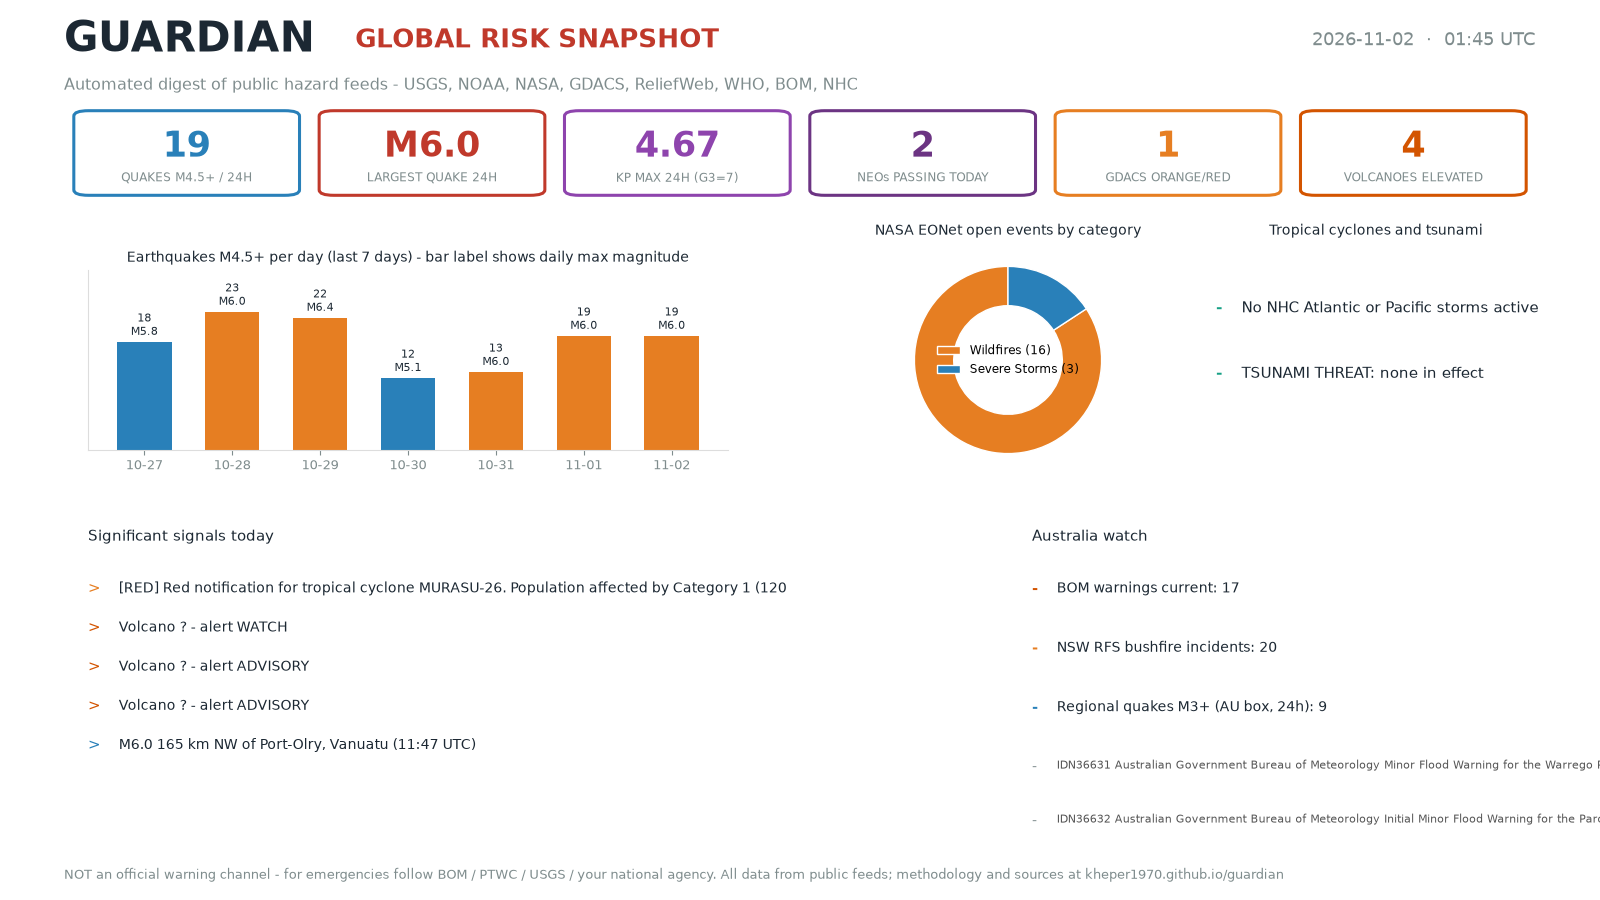
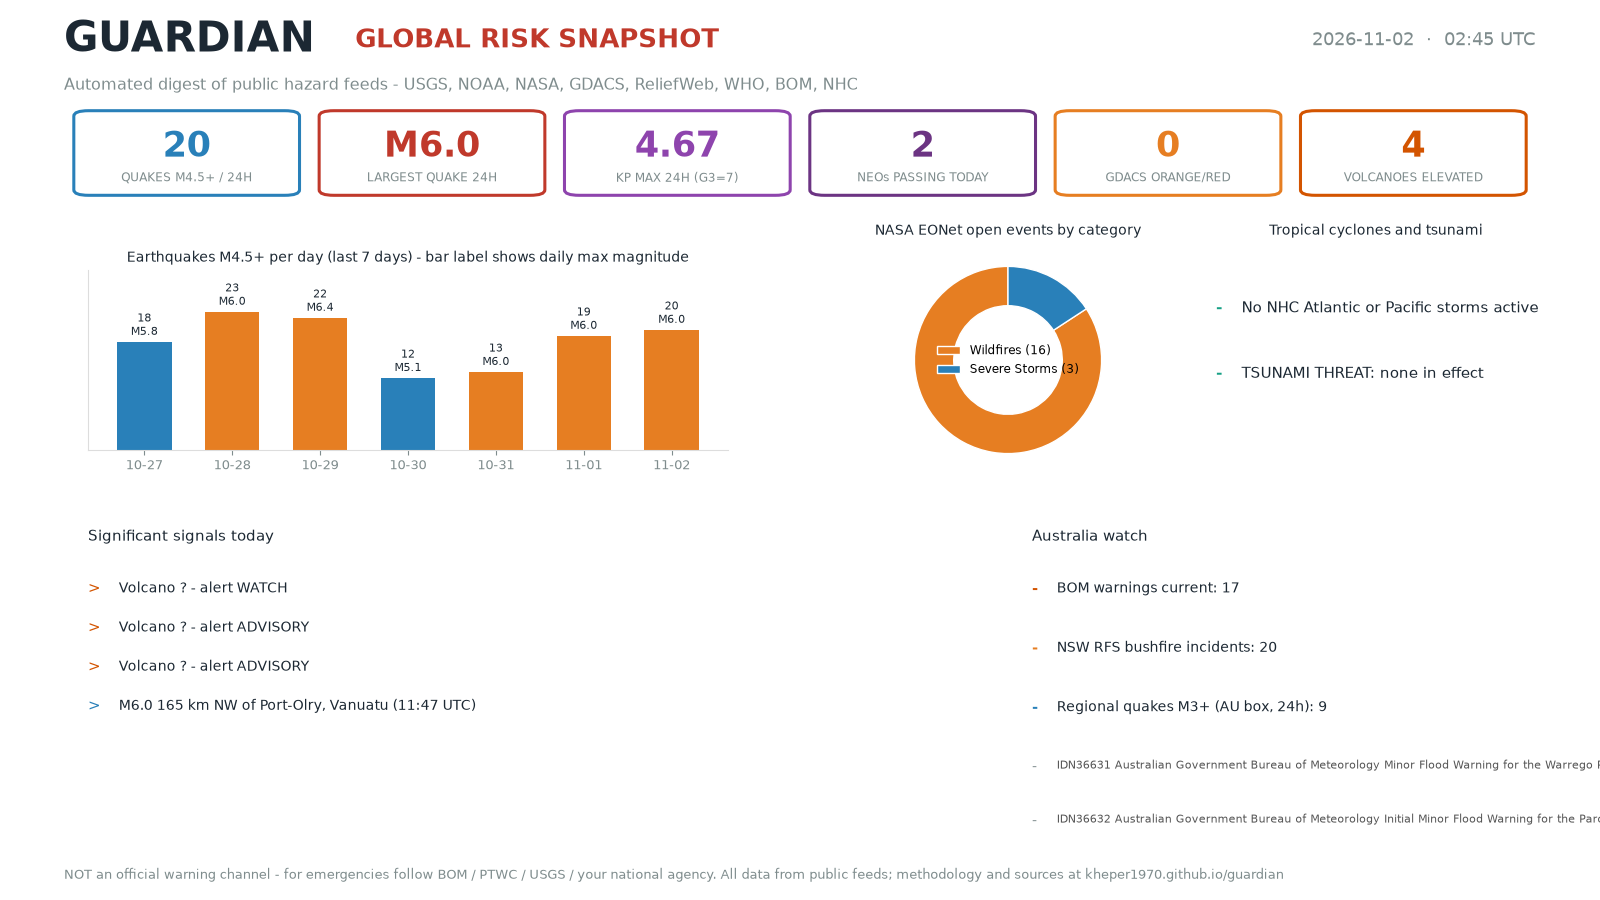
Automated update 2026-11-02T02:50Z

diff --git a/briefing/briefing_2026-11-02.html b/briefing/briefing_2026-11-02.html
@@ -80,16 +80,16 @@ or your national emergency agency.</p>
 <h1>Guardian daily briefing — 2026-11-02</h1>
 <p>Generated automatically from public feeds (USGS, NOAA, NASA, WHO, GDACS, ReliefWeb, EONet, Google News). All times UTC.</p>
 <h2>Earthquakes (M4.5+, last 24h)</h2>
-<p>Count: 18
+<p>Count: 20
 - M6 165 km NW of Port-Olry, Vanuatu (2026-11-01 11:47 UTC)
 - M5.4 203 km NW of Port-Olry, Vanuatu (2026-11-01 06:26 UTC)
+- M5.1 Kermadec Islands region (2026-11-02 01:18 UTC)
 - M5.1 Banda Sea (2026-11-02 00:53 UTC)
 - M5.1 South Sandwich Islands region (2026-11-01 17:11 UTC)
 - M5.1 201 km NW of Port-Olry, Vanuatu (2026-11-01 07:00 UTC)
 - M5 Mid-Indian Ridge (2026-11-01 18:34 UTC)
 - M4.8 Mid-Indian Ridge (2026-11-01 18:53 UTC)
-- M4.8 203 km NW of Port-Olry, Vanuatu (2026-11-01 12:08 UTC)
-- ...and 10 more</p>
+- ...and 12 more</p>
 <h2>Space weather</h2>
 <ul>
 <li>Kp now: 2.0; max last 24h: 4.67 (storm threshold G3 = Kp 7.0)</li>
@@ -181,13 +181,15 @@ or your national emergency agency.</p>
 <ul>
 <li>Heat, Food Insecurity, Disease Make Climate a Global Health Emergency: Lancet Countdown - The Energy Mix (Wed, 28 Oct 2026)</li>
 <li>WFP Palestine Emergency Response External Situation Report #99, 29 October 2026 (Reporting period: 1-15 October 2026) - ReliefWeb (Fri, 30 Oct 2026)</li>
-<li>UK households urged to prepare for emergencies and ‘attacks’. Here’s what to buy - The Independent (Fri, 30 Oct 2026)</li>
-<li>Somalia - UN World Food Programme (Mon, 24 Aug 2026)</li>
-<li>FAO's Global Emergency and Resilience Appeal 2026 | FAO Emergency and Resilience - Food and Agriculture Organization (Mon, 19 Oct 2026)</li>
-<li>Can emergency cash buy food security? - UNU | United Nations University (Wed, 08 Jul 2026)</li>
+<li>Food insecurity and child malnutrition worsen in Afghanistan despite strong agricultural season - UN World Food Programme (Thu, 15 Oct 2026)</li>
+<li>Flooding and Food Security: The Urgent Need for Research - Inter Press Service (Wed, 28 Oct 2026)</li>
+<li>US, UK among 31 countries warning of 'alarming' Sudan famine - The New Indian Express (Tue, 27 Oct 2026)</li>
+<li>When Getting Food Means Filling Out Forms - NYC Food Policy Center (Tue, 30 Jun 2026)</li>
 </ul>
 <h2>Famine watch (UN News + ReliefWeb keywords)</h2>
 <ul>
+<li>[UN News] Ending conflict is ‘number one thing’ to reduce world hunger, new WFP chief says (Wed, 28 Oct 2026)</li>
+<li>[ReliefWeb] Cameroon Food Security Outlook Update, October 2026 - May 2027: Conflict compounded by rainfall deficits to sustain elevated assistance needs through May (Mon, 02 Nov 2026)</li>
 <li>[ReliefWeb] DR Congo: République démocratique du Congo : Aperçu de l’insécurité alimentaire aiguë de l’IPC | Septembre 2026 – Juin 2027 (Publié le 30 octobre 2026) (Mon, 02 Nov 2026)</li>
 <li>[ReliefWeb] DR Congo: Democratic Republic of Congo: IPC Acute Food Insecurity Snapshot | September 2026 – June 2027 (Mon, 02 Nov 2026)</li>
 <li>[ReliefWeb] Zambia | Drought: Early Action Protocol Activation (EAP No: EAP2023CR02, Operation No.: MDRZM025), 14 October 2026 (Mon, 02 Nov 2026)</li>
@@ -196,15 +198,18 @@ or your national emergency agency.</p>
 </ul>
 <h2>Armed conflict watch (UN News + ReliefWeb keywords)</h2>
 <ul>
+<li>[UN News] Ukraine: Oleshky ceasefire offers ‘hope’ for civilians as attacks on aid vehicles continue (Fri, 30 Oct 2026)</li>
+<li>[UN News] Yemen war makes reaching assistance too dangerous for many (Fri, 30 Oct 2026)</li>
 <li>[ReliefWeb] Afghanistan Complex Emergency - DREF Operational Update (MDRAF020) (Mon, 02 Nov 2026)</li>
+<li>[ReliefWeb] World Food Programme on the ground providing emergency food assistance to Oleshky evacuees in Ukraine (Sun, 01 Nov 2026)</li>
 </ul>
 <h2>Australia watch (ABC News, NSW RFS, USGS AU quakes, GNews AU, health.gov.au)</h2>
 <ul>
-<li>Tasmania might keep public transport free statewide (Mon, 02 Nov 2026)</li>
-<li>Bancroft reaches acceptance over Test recall chances after 'dejection' (Mon, 02 Nov 2026)</li>
-<li>They voted for Trump last time. Now some are having second thoughts (Mon, 02 Nov 2026)</li>
-<li>Strintzos eyes Olympic berth after fifth finish in New York Marathon (Mon, 02 Nov 2026)</li>
-<li>Homeowners facing thousands in costs to upgrade from gas to electric (Mon, 02 Nov 2026)</li>
+<li>Eight arrested over alleged assault of off-duty police officer (Mon, 02 Nov 2026)</li>
+<li>Ukrainian air raid alert app sends false warnings after being hacked (Mon, 02 Nov 2026)</li>
+<li>Bourke filmmaker takes over reins of Indigenous film festival in Paris (Mon, 02 Nov 2026)</li>
+<li>Quick hits: NZ duo on brink of history as Lebanon goes into folklore (Mon, 02 Nov 2026)</li>
+<li>Labor allegedly used threats and inflated costs to dictate Airport Rail Link (Mon, 02 Nov 2026)</li>
 <li>NSW RFS current incidents: 20 (0 at Warning level)</li>
 <li>AU-region quakes (24h): 9, max M4.8</li>
 <li>M3.5 9 km NE of Korumburra, Australia</li>
@@ -213,9 +218,9 @@ or your national emergency agency.</p>
 <li>AU emergency headlines:</li>
 <li>More storms looming for SEQ as 'extreme' heatwave hits Gulf country - ABC News &amp; Headlines – Australian Broadcasting Corporation (Sun, 01 Nov 2026)</li>
 <li>Australia’s aerial firefighting fleet gets $150m boost ahead of supercharged El Niño - News24 (Sun, 01 Nov 2026)</li>
-<li>Warnings as hail, heavy winds slam south-east Queensland - Nine.com.au (Sun, 01 Nov 2026)</li>
+<li>Water Gushes Down Wash as Heavy Rain Floods Arizona - The Australian (Mon, 02 Nov 2026)</li>
 <li>Major risk to Australia's essential services as stockpiling advice grows overseas: 'Paralyse the country' - Yahoo News Australia (Sat, 31 Oct 2026)</li>
-<li>Cyclone Vaianu: Qantas, Jetstar &amp; Virgin's Fiji flights cancelled - Karryon (Sun, 01 Nov 2026)</li>
+<li>Shoppers told to consider using David Jones gift cards as iconic chain fights for future - Nine.com.au (Sun, 01 Nov 2026)</li>
 <li>India-Australia defence ties: Advancing a vital Indo-Pacific partnership - Lowy Institute (Sun, 01 Nov 2026)</li>
 <li>SA defence leader wins accolade from PM - InDaily South Australia (Sun, 01 Nov 2026)</li>
 <li>Interoperability needs logistics: the next phase of US Marine rotations to Australia - The Strategist | ASPI's analysis and commentary site (Sun, 01 Nov 2026)</li>

diff --git a/index.html b/index.html
@@ -96,8 +96,8 @@ The setting is reviewed annually (each January) by its Science and Security Boar
 <a href="https://thebulletin.org/doomsday-clock/">thebulletin.org</a>.
 Clock artwork © Bulletin of the Atomic Scientists; used with attribution.</p>
 </div></div></div>
-<div class="statgrid"><div class="stat"><div class="n">19</div><div class="l">quakes M4.5+ / 24h</div></div><div class="stat"><div class="n">M6.0</div><div class="l">largest quake</div></div><div class="stat"><div class="n">4.67</div><div class="l">Kp max 24h</div></div><div class="stat"><div class="n">2</div><div class="l">NEOs today</div></div><div class="stat"><div class="n">1</div><div class="l">GDACS orange/red</div></div><div class="stat"><div class="n">4</div><div class="l">volcanoes elevated</div></div></div>
-<p style="color:#666666;font-size:.9rem">Snapshot taken 2026-11-02T01:45:01.318654+00:00 UTC.
+<div class="statgrid"><div class="stat"><div class="n">20</div><div class="l">quakes M4.5+ / 24h</div></div><div class="stat"><div class="n">M6.0</div><div class="l">largest quake</div></div><div class="stat"><div class="n">4.67</div><div class="l">Kp max 24h</div></div><div class="stat"><div class="n">2</div><div class="l">NEOs today</div></div><div class="stat"><div class="n">0</div><div class="l">GDACS orange/red</div></div><div class="stat"><div class="n">4</div><div class="l">volcanoes elevated</div></div></div>
+<p style="color:#666666;font-size:.9rem">Snapshot taken 2026-11-02T02:45:01.839377+00:00 UTC.
 Open the <a href="briefing/briefing_2026-11-02.html">full briefing</a> for details and sources.</p>
 </div>
 <div class="card"><h2 style="margin-top:0">Daily infographic</h2>

diff --git a/briefing/briefing_2026-11-02.md b/briefing/briefing_2026-11-02.md
@@ -3,16 +3,16 @@
 Generated automatically from public feeds (USGS, NOAA, NASA, WHO, GDACS, ReliefWeb, EONet, Google News). All times UTC.
 
 ## Earthquakes (M4.5+, last 24h)
-Count: 18
+Count: 20
 - M6 165 km NW of Port-Olry, Vanuatu (2026-11-01 11:47 UTC)
 - M5.4 203 km NW of Port-Olry, Vanuatu (2026-11-01 06:26 UTC)
+- M5.1 Kermadec Islands region (2026-11-02 01:18 UTC)
 - M5.1 Banda Sea (2026-11-02 00:53 UTC)
 - M5.1 South Sandwich Islands region (2026-11-01 17:11 UTC)
 - M5.1 201 km NW of Port-Olry, Vanuatu (2026-11-01 07:00 UTC)
 - M5 Mid-Indian Ridge (2026-11-01 18:34 UTC)
 - M4.8 Mid-Indian Ridge (2026-11-01 18:53 UTC)
-- M4.8 203 km NW of Port-Olry, Vanuatu (2026-11-01 12:08 UTC)
-- ...and 10 more
+- ...and 12 more
 
 ## Space weather
 - Kp now: 2.0; max last 24h: 4.67 (storm threshold G3 = Kp 7.0)
@@ -98,12 +98,14 @@ Count: 2
 ## Food security watch (Google News: famine keywords)
 - Heat, Food Insecurity, Disease Make Climate a Global Health Emergency: Lancet Countdown - The Energy Mix (Wed, 28 Oct 2026)
 - WFP Palestine Emergency Response External Situation Report #99, 29 October 2026 (Reporting period: 1-15 October 2026) - ReliefWeb (Fri, 30 Oct 2026)
-- UK households urged to prepare for emergencies and ‘attacks’. Here’s what to buy - The Independent (Fri, 30 Oct 2026)
-- Somalia - UN World Food Programme (Mon, 24 Aug 2026)
-- FAO's Global Emergency and Resilience Appeal 2026 | FAO Emergency and Resilience - Food and Agriculture Organization (Mon, 19 Oct 2026)
-- Can emergency cash buy food security? - UNU | United Nations University (Wed, 08 Jul 2026)
+- Food insecurity and child malnutrition worsen in Afghanistan despite strong agricultural season - UN World Food Programme (Thu, 15 Oct 2026)
+- Flooding and Food Security: The Urgent Need for Research - Inter Press Service (Wed, 28 Oct 2026)
+- US, UK among 31 countries warning of 'alarming' Sudan famine - The New Indian Express (Tue, 27 Oct 2026)
+- When Getting Food Means Filling Out Forms - NYC Food Policy Center (Tue, 30 Jun 2026)
 
 ## Famine watch (UN News + ReliefWeb keywords)
+- [UN News] Ending conflict is ‘number one thing’ to reduce world hunger, new WFP chief says (Wed, 28 Oct 2026)
+- [ReliefWeb] Cameroon Food Security Outlook Update, October 2026 - May 2027: Conflict compounded by rainfall deficits to sustain elevated assistance needs through May (Mon, 02 Nov 2026)
 - [ReliefWeb] DR Congo: République démocratique du Congo : Aperçu de l’insécurité alimentaire aiguë de l’IPC | Septembre 2026 – Juin 2027 (Publié le 30 octobre 2026) (Mon, 02 Nov 2026)
 - [ReliefWeb] DR Congo: Democratic Republic of Congo: IPC Acute Food Insecurity Snapshot | September 2026 – June 2027 (Mon, 02 Nov 2026)
 - [ReliefWeb] Zambia | Drought: Early Action Protocol Activation (EAP No: EAP2023CR02, Operation No.: MDRZM025), 14 October 2026 (Mon, 02 Nov 2026)
@@ -111,14 +113,17 @@ Count: 2
 - [ReliefWeb] South Sudan Humanitarian Update (as of 30 October 2026) (Sat, 31 Oct 2026)
 
 ## Armed conflict watch (UN News + ReliefWeb keywords)
+- [UN News] Ukraine: Oleshky ceasefire offers ‘hope’ for civilians as attacks on aid vehicles continue (Fri, 30 Oct 2026)
+- [UN News] Yemen war makes reaching assistance too dangerous for many (Fri, 30 Oct 2026)
 - [ReliefWeb] Afghanistan Complex Emergency - DREF Operational Update (MDRAF020) (Mon, 02 Nov 2026)
+- [ReliefWeb] World Food Programme on the ground providing emergency food assistance to Oleshky evacuees in Ukraine (Sun, 01 Nov 2026)
 
 ## Australia watch (ABC News, NSW RFS, USGS AU quakes, GNews AU, health.gov.au)
-- Tasmania might keep public transport free statewide (Mon, 02 Nov 2026)
-- Bancroft reaches acceptance over Test recall chances after 'dejection' (Mon, 02 Nov 2026)
-- They voted for Trump last time. Now some are having second thoughts (Mon, 02 Nov 2026)
-- Strintzos eyes Olympic berth after fifth finish in New York Marathon (Mon, 02 Nov 2026)
-- Homeowners facing thousands in costs to upgrade from gas to electric (Mon, 02 Nov 2026)
+- Eight arrested over alleged assault of off-duty police officer (Mon, 02 Nov 2026)
+- Ukrainian air raid alert app sends false warnings after being hacked (Mon, 02 Nov 2026)
+- Bourke filmmaker takes over reins of Indigenous film festival in Paris (Mon, 02 Nov 2026)
+- Quick hits: NZ duo on brink of history as Lebanon goes into folklore (Mon, 02 Nov 2026)
+- Labor allegedly used threats and inflated costs to dictate Airport Rail Link (Mon, 02 Nov 2026)
 - NSW RFS current incidents: 20 (0 at Warning level)
 - AU-region quakes (24h): 9, max M4.8
   - M3.5 9 km NE of Korumburra, Australia
@@ -127,9 +132,9 @@ Count: 2
 - AU emergency headlines:
   - More storms looming for SEQ as 'extreme' heatwave hits Gulf country - ABC News &amp; Headlines – Australian Broadcasting Corporation (Sun, 01 Nov 2026)
   - Australia’s aerial firefighting fleet gets $150m boost ahead of supercharged El Niño - News24 (Sun, 01 Nov 2026)
-  - Warnings as hail, heavy winds slam south-east Queensland - Nine.com.au (Sun, 01 Nov 2026)
+  - Water Gushes Down Wash as Heavy Rain Floods Arizona - The Australian (Mon, 02 Nov 2026)
   - Major risk to Australia's essential services as stockpiling advice grows overseas: 'Paralyse the country' - Yahoo News Australia (Sat, 31 Oct 2026)
-  - Cyclone Vaianu: Qantas, Jetstar &amp; Virgin's Fiji flights cancelled - Karryon (Sun, 01 Nov 2026)
+  - Shoppers told to consider using David Jones gift cards as iconic chain fights for future - Nine.com.au (Sun, 01 Nov 2026)
   - India-Australia defence ties: Advancing a vital Indo-Pacific partnership - Lowy Institute (Sun, 01 Nov 2026)
   - SA defence leader wins accolade from PM - InDaily South Australia (Sun, 01 Nov 2026)
   - Interoperability needs logistics: the next phase of US Marine rotations to Australia - The Strategist | ASPI's analysis and commentary site (Sun, 01 Nov 2026)
